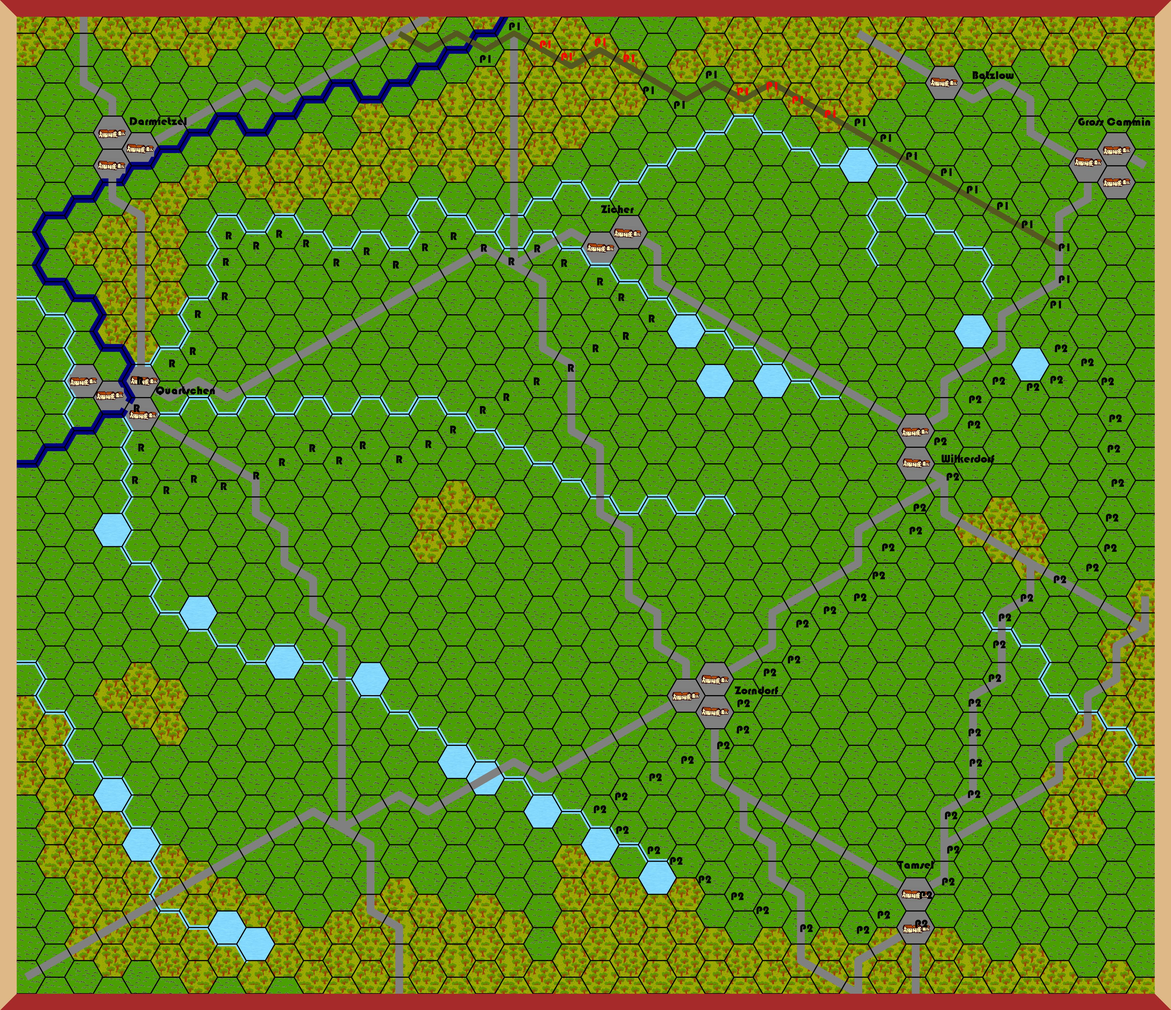
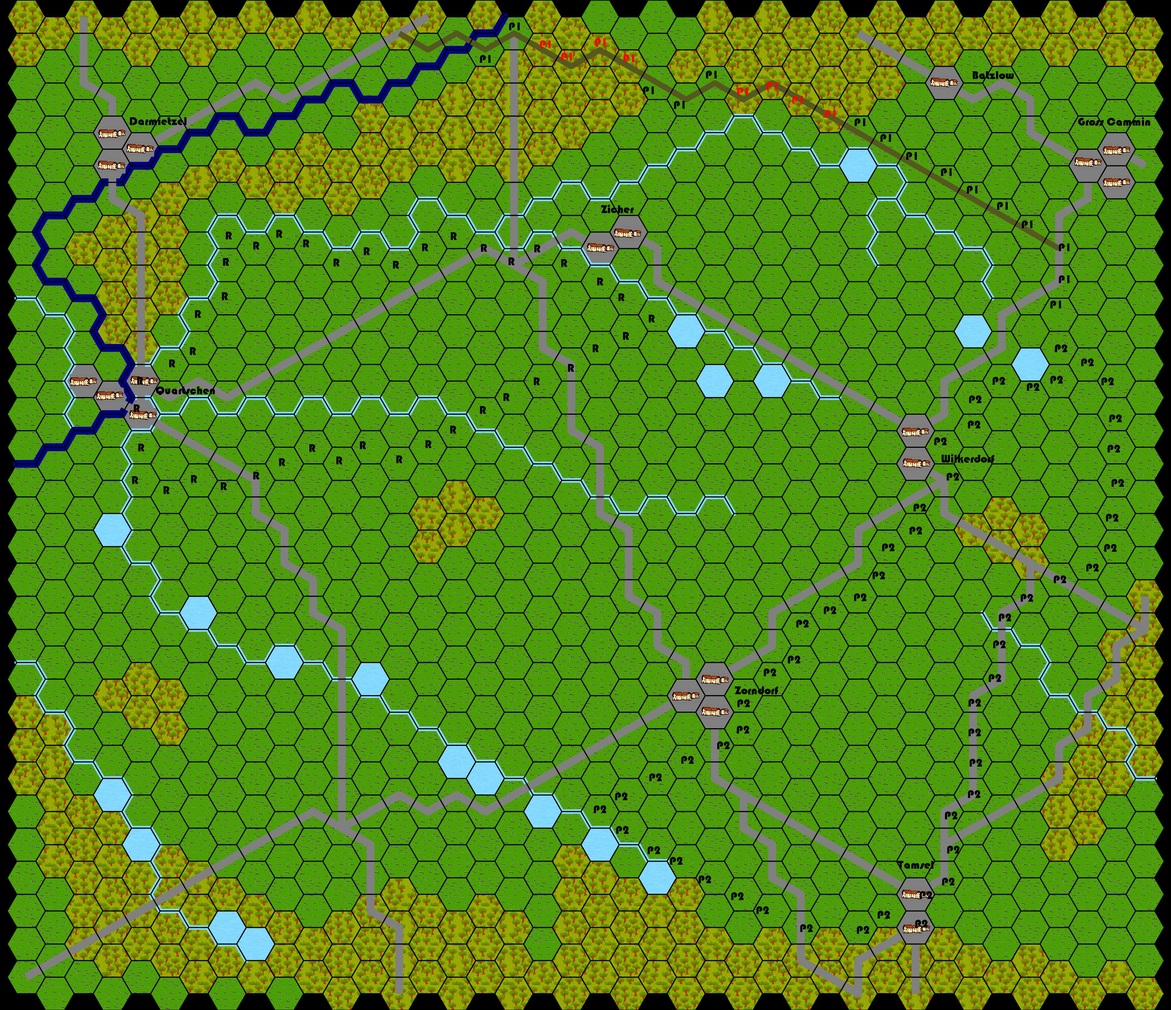
Fixed zorndorf map and type in email

Changed region(s): [[0.0, 0.0, 1.0, 1.0], [0.3737, 0.7463, 0.4671, 0.8084], [0.0934, 0.4042, 0.1246, 0.4353]]

diff --git a/application/models/users/users_model.php b/application/models/users/users_model.php
@@ -277,7 +277,7 @@ gamesAvail;
                     $headers = 'From: wargame_daemon@davidrodal.com' . "\r\n" .
                         'Reply-To: dave.rodal@gmail.com' . "\r\n" .
                         'X-Mailer: PHP/' . phpversion();
-                    mail($email,"Password Change","Dear $username, Your password for davidrodal.com has been changeed",$headers);
+                    mail($email,"Password Change","Dear $username, Your password for davidrodal.com has been changed",$headers);
                     return false;
                 }
             }
